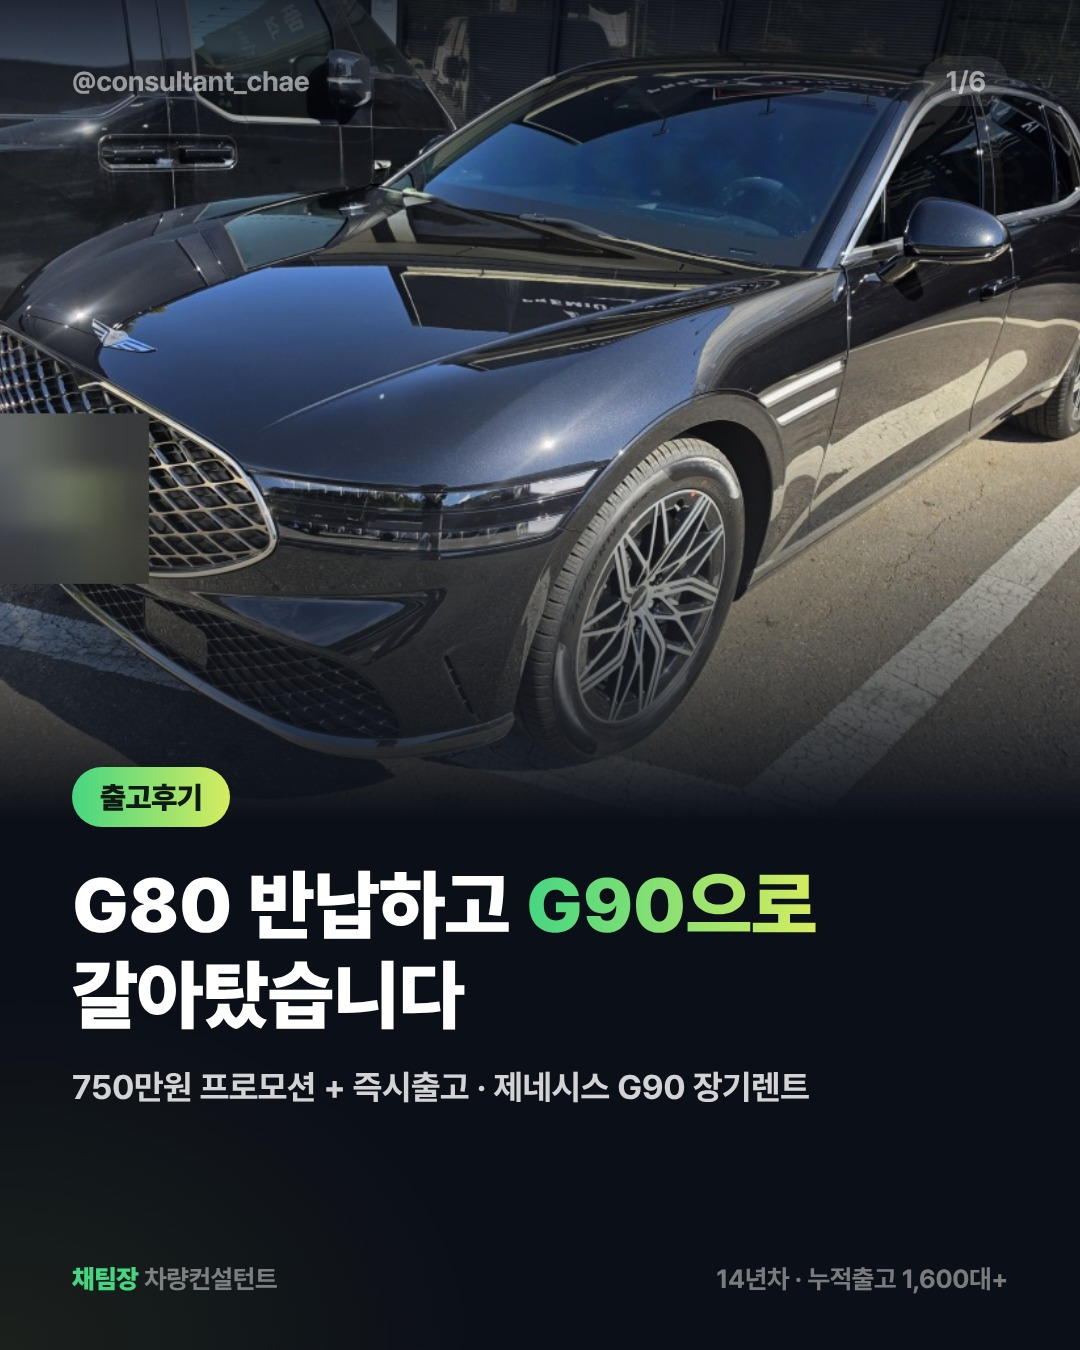
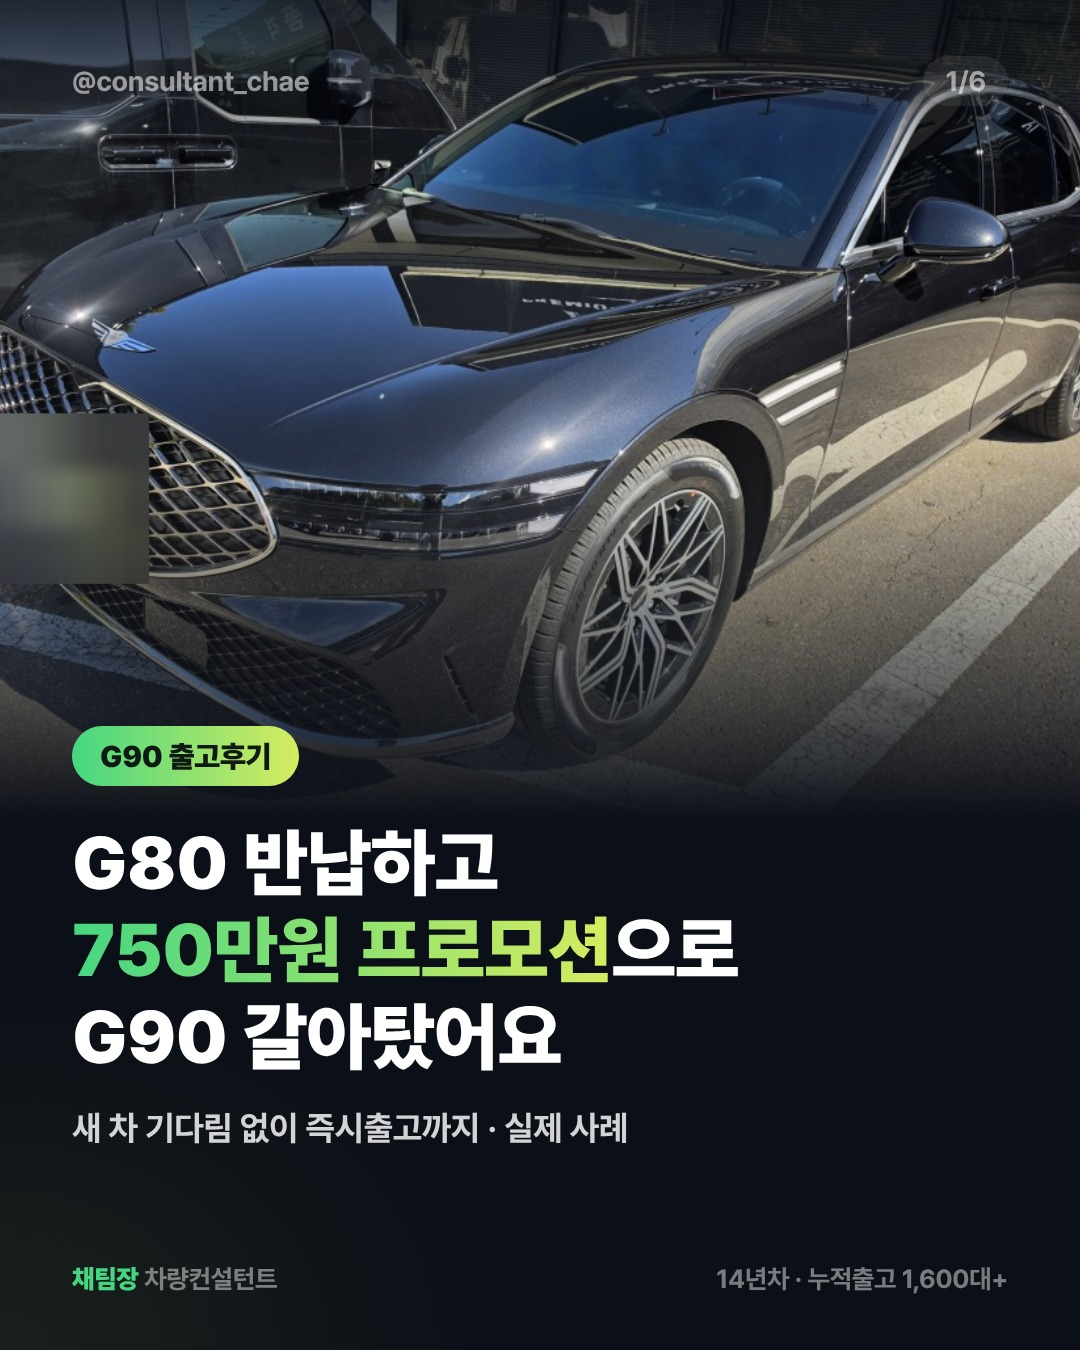
콘텐츠 기획 기준(CONTENT_GUIDE) 추가, G90 표지·캡션·쓰레드 첫 줄을 원천 콘텐츠 중심으로 수정
Claude-Session: https://claude.ai/code/session_011mQyRMwwkGobAwWjG8sWrF

Changed region(s): [[0.0611, 0.5289, 0.7639, 0.8711]]

diff --git a/CONTENT_GUIDE.md b/CONTENT_GUIDE.md
@@ -1,0 +1,52 @@
+# 채팀장 콘텐츠 기획·분석 기준 (터지는 콘텐츠의 원리)
+
+모든 카드뉴스·쓰레드·릴스는 만들기 전에 아래로 기획하고, 전달할 때 **기획 분석표**를 함께 붙인다.
+
+## 1. 4대 가치 — 2개 이상 결합할 것
+| 가치 | 뜻 | 차량 콘텐츠 예 |
+|---|---|---|
+| 기능적 | 유용함, 돈·시간 절약, 문제 해결 | 프로모션 금액, 비용처리 한도, 견적 체크리스트 |
+| 정서적 | 재미, 신기함, 공감, 안도 | "사고 나도 내 보험료 그대로", 현장 에피소드 |
+| 사회적 | 공유·저장하고 싶은 화제성 | "대표님들 90%가 착각하는 것", 동료에게 보내줄 만한 표 |
+| 미적 | 예쁘고 멋진 시각 만족 | 실제 출고 사진, 깔끔한 디자인 |
+
+후킹(3초)은 구조일 뿐 본질이 아니다. 흥미만 있고 기능적 가치가 없으면 상담으로 이어지지 않는다.
+
+## 2. 원천 콘텐츠에 포인트
+- **원천 콘텐츠** = 광고하는 실체: 프로모션 금액, 즉시출고 재고, 실제 출고 차량, 견적 조건, 14년·1,600대 경험, 무료 견적 비교 서비스
+- **광고 콘텐츠** = 그걸 알리는 가공물: 카드뉴스, 캡션, 쓰레드 글
+- 카피를 다듬는 것보다 **원천 콘텐츠를 앞에 세우는 것**이 훨씬 잘 터진다. (예: "750만원 프로모션 + 즉시출고"를 부제가 아니라 제목에)
+- 원천 콘텐츠를 바꿀 수 있으면 바꾼다. (예: "이번 주 즉시출고 재고 3대", "댓글 남기면 재고 리스트 전송")
+
+## 3. 문제 발견 → 고객 언어(LMF)
+- 흐름: 문제 발견 → 문제 상황 정의(현재 vs 원하는 상태) → 해결책 연결
+- 출처: 상담에서 들은 말, 블로그 댓글·문의, 보배드림·클리앙·네이버 카페 같은 커뮤니티
+- 추상적 페르소나 대신 **고객이 실제로 하는 말**로 쓴다.
+  - ✗ "합리적인 장기렌트 조건을 안내해 드립니다"
+  - ○ "G80 만기 다가오는데, 새 차 기다리다 차 없는 기간 생길까 걱정이라면"
+  - ○ "사고 두 번 났더니 보험료가 확 올랐다면"
+
+## 4. 점검 6항목 (발행 전 체크)
+1. 타겟이 콘텐츠 안에 보이는가? (누구 얘기인지 첫 장에서 알 수 있나)
+2. 제안이 명확한가? (그래서 뭘 해준다는 건지)
+3. 어떤 가치를 몇 개 결합했나?
+4. 고객 언어로 바꿨나?
+5. 행동 유도(CTA)가 구체적인가? ("프로필 링크"보다 "댓글에 G90 남기면 재고 보내드려요"가 강함)
+6. 모든 요소(사진·숫자·문구)가 제 역할을 하나? 빼도 되는 건 뺀다.
+
+## 5. 벤치마킹 (훔치되 베끼지 않기)
+- 반응 좋은 차량·금융 계정 게시물을 저장 → 어떤 가치·원천 콘텐츠에 반응했는지 분석
+- 메타 광고 라이브러리에서 **오래 집행된 광고** = 성과가 난 광고
+- 단계: 따라 만들기 → 약간 비틀기 → 가치 하나를 바꾸거나 원천 콘텐츠를 강화해서 창작
+
+## 6. 성과 사이클
+가치 점검 → 포인트 결정(원천/광고) → 노출 → 트래킹(저장·공유·댓글·문의) → 재점검
+발행 후 반응을 알려주면 다음 기획에 반영한다.
+
+## 전달 시 붙일 기획 분석표 양식
+- 타겟:
+- 고객 문제(고객 언어):
+- 원천 콘텐츠 포인트:
+- 가치 결합:
+- CTA:
+- 점검 6항목 중 약한 부분과 보완:
